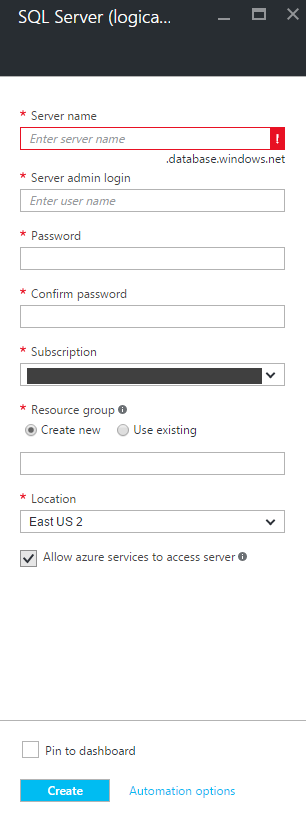
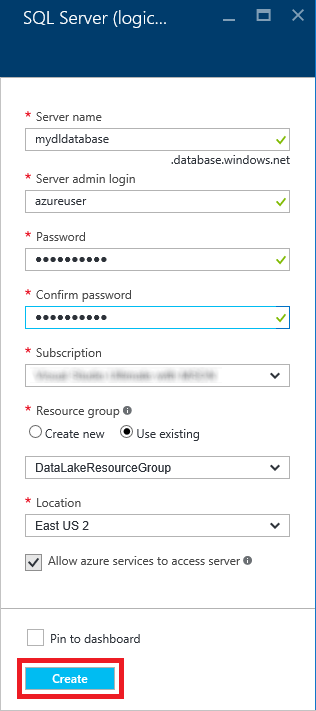
More updates to Data Lake lab

diff --git a/Content/Data Lake/Data Lake Store + Analytics HOL.md b/Content/Data Lake/Data Lake Store + Analytics HOL.md
@@ -302,31 +302,27 @@ Let's get started!
 
     _New bacpac blob in Azure storage_
 
-1. The next step is to add a new SQL Database server. In the Azure portal, navigate to **Browse -> SQL servers**:
+1. The next step is to add a new SQL database server. In the Azure portal, click **Browse -> SQL servers**:
 
-    ![SQL Servers](Images/sql-servers.png)
+    ![Listing SQL servers](Images/sql-servers.png)
 
-    _SQL Servers_
+    _Listing SQL servers_
 
-    On the newly opened blade click **+ Add** to open the "SQL Server (logical server only)" blade:
+1. Click **+ Add** in the "SQL servers" blade:
 
-    ![Create SQL server](Images/create-sql-server.png)
+    ![Adding a SQL server](Images/add-sql-server.png)
 
-    _Create a new SQL server_
+    _Adding a SQL server_
 
-    Choose a unique name (it must be unique across all of Azure; the portal will prompt you if you choose a name already in use). Ensure your new Azure subscription is selected.
+1. In the ensuing blade, enter the parameters for a new SQL server, beginning with a unique name. (It must be unique across all of Azure; be sure a green check appears in the box.) Enter "azureuser" (without quotation marks) as the user name, and "AzurePass!" (again without quotation marks) as the password. Under **Resource group**, select **Use existing** and select the same resource group you have used throughout this lab. For **Location**, select the same location you selected in previous exercises. When you're finished, click the **Create** button at the bottom of the blade.
 
-    If you're following this lab in sequence, choose the resource group you created in [Exercise 1](#Exercise1). Otherwise, enter a name for the resource group that you wish to associate with your new Data Lake Analytics account — for example, "DataLakeHOL" (without quotation marks). Resource group names do not have to be globally unique as storage account names do, but they must be unique to a subscription.
+    ![Creating a new SQL server](Images/create-sql-server.png)
 
-    You'll also need to choose a server admin login and password; be mindful of the prompts for minimum password complexity... and remember your username and password!
+    _Creating a new SQL server_
 
-	Leave **Pin to dashboard** checked so the newly created SQL server appears on your dashboard in the Azure Portal. Once you're finished, click the **Create** button at the bottom of the blade.
+    After a few moments, the SQL server will be created. Click the **Refresh** button at the top of the "SQL servers" blade and make sure the new SQL server appears in the list of SQL servers associated with your subscription. 
 
-	> If there are any input errors, such as spaces in the resource-group name, the fields containing the errors will be flagged with red excalamation points. Hover the mouse over an exclamation point for help resolving the error.
-
-    After a few moments, the new SQL server tile will appear in the Azure Portal home screen.
-
-1. Next you'll need to create a new database instance on your new SQL server, using the bacpac blob you previously uploaded. Click the tile for your newly created database server and then click **Import database** toward the top:
+1. Next, you need to create a new database instance using the blob you uploaded a few moments ago. In the "SQL servers" blade, click the SQL server you just created. Then click **Import database** at the top of the ensuing blade:
 
     ![Import database](Images/import-database.png)
 
@@ -356,28 +352,32 @@ Let's get started!
 
     Navigate back to your Data Lake Analytics account and Click **New Job** near the top. In the query blade, enter the following U-SQL and then run the job:
 
-    > CREATE DATABASE UserIntegration;
+    <pre>
+	CREATE DATABASE UserIntegration;
+	</pre>
 
     Using your previously configured Azure command shell, execute the following commands to create a Data Lake catalog secret containing SQL server connection and authentication information to be used during federated query execution:
 
-    > azure config mode arm
-
-    > azure datalake analytics catalog secret create "YOUR-ANALYTICS-ACCOUNT-NAME" "UserIntegration" "tcp://YOUR-DATABASE-SERVER-NAME.database.windows.net:1433"
+    <pre>
+	azure config mode arm
+	azure datalake analytics catalog secret create "YOUR-ANALYTICS-ACCOUNT-NAME" "UserIntegration" "tcp://YOUR-DATABASE-SERVER-NAME.database.windows.net:1433"
+    </pre>
 
     You will be prompted for a catalog secret name (use "user-integration-secret", no quotes) and password (be sure to use the password for your SQL server admin account). Also, be sure to use your Data Lake Analytics account name and SQL database server (not instance) name.
 
     Return to your Data Lake Analytics account in the Azure portal, create a new U-SQL job and execute the following query:
 
-    > USE DATABASE UserIntegration;
+    <pre>
+    USE DATABASE UserIntegration;
     
-    > CREATE CREDENTIAL IF NOT EXISTS FederatedDbSecret WITH USER_NAME = "YOUR-DB-SERVER-ADMIN-LOGIN-NAME", IDENTITY = "user-integration-secret";
+    CREATE CREDENTIAL IF NOT EXISTS FederatedDbSecret WITH USER_NAME = "YOUR-DB-SERVER-ADMIN-LOGIN-NAME", IDENTITY = "user-integration-secret";
 
-    > CREATE DATA SOURCE IF NOT EXISTS AcademicSEDb FROM AZURESQLDB WITH
+    CREATE DATA SOURCE IF NOT EXISTS AcademicSEDb FROM AZURESQLDB WITH
        ( PROVIDER_STRING = "Database=YOUR-DATABASE-INSTANCE-NAME;Trusted_Connection=False;Encrypt=True",
          CREDENTIAL = FederatedDbSecret,
          REMOTABLE_TYPES = (bool, byte, sbyte, short, ushort, int, uint, long, ulong, decimal, float, double, string, DateTime) );
 
-    > CREATE EXTERNAL TABLE User (
+    CREATE EXTERNAL TABLE User (
                             [id] int,
                             [reputation] int,
                             [created] DateTime,
@@ -385,6 +385,7 @@ Let's get started!
                             [lastaccess] DateTime,
                             [location] string
                         ) FROM AcademicSEDb LOCATION "dbo.User";
+	</pre>
 
     This query creates a credential using your previously created catalog secret, configures your SQL Database as a data source authenticated with that new credential, and then creates a named table in your local Data Lake Analytics database which is actually backed by the SQL data source. The last step (creating the named external table) is optional but is more convenient than referencing a federated data source + external table over and over again.
 
